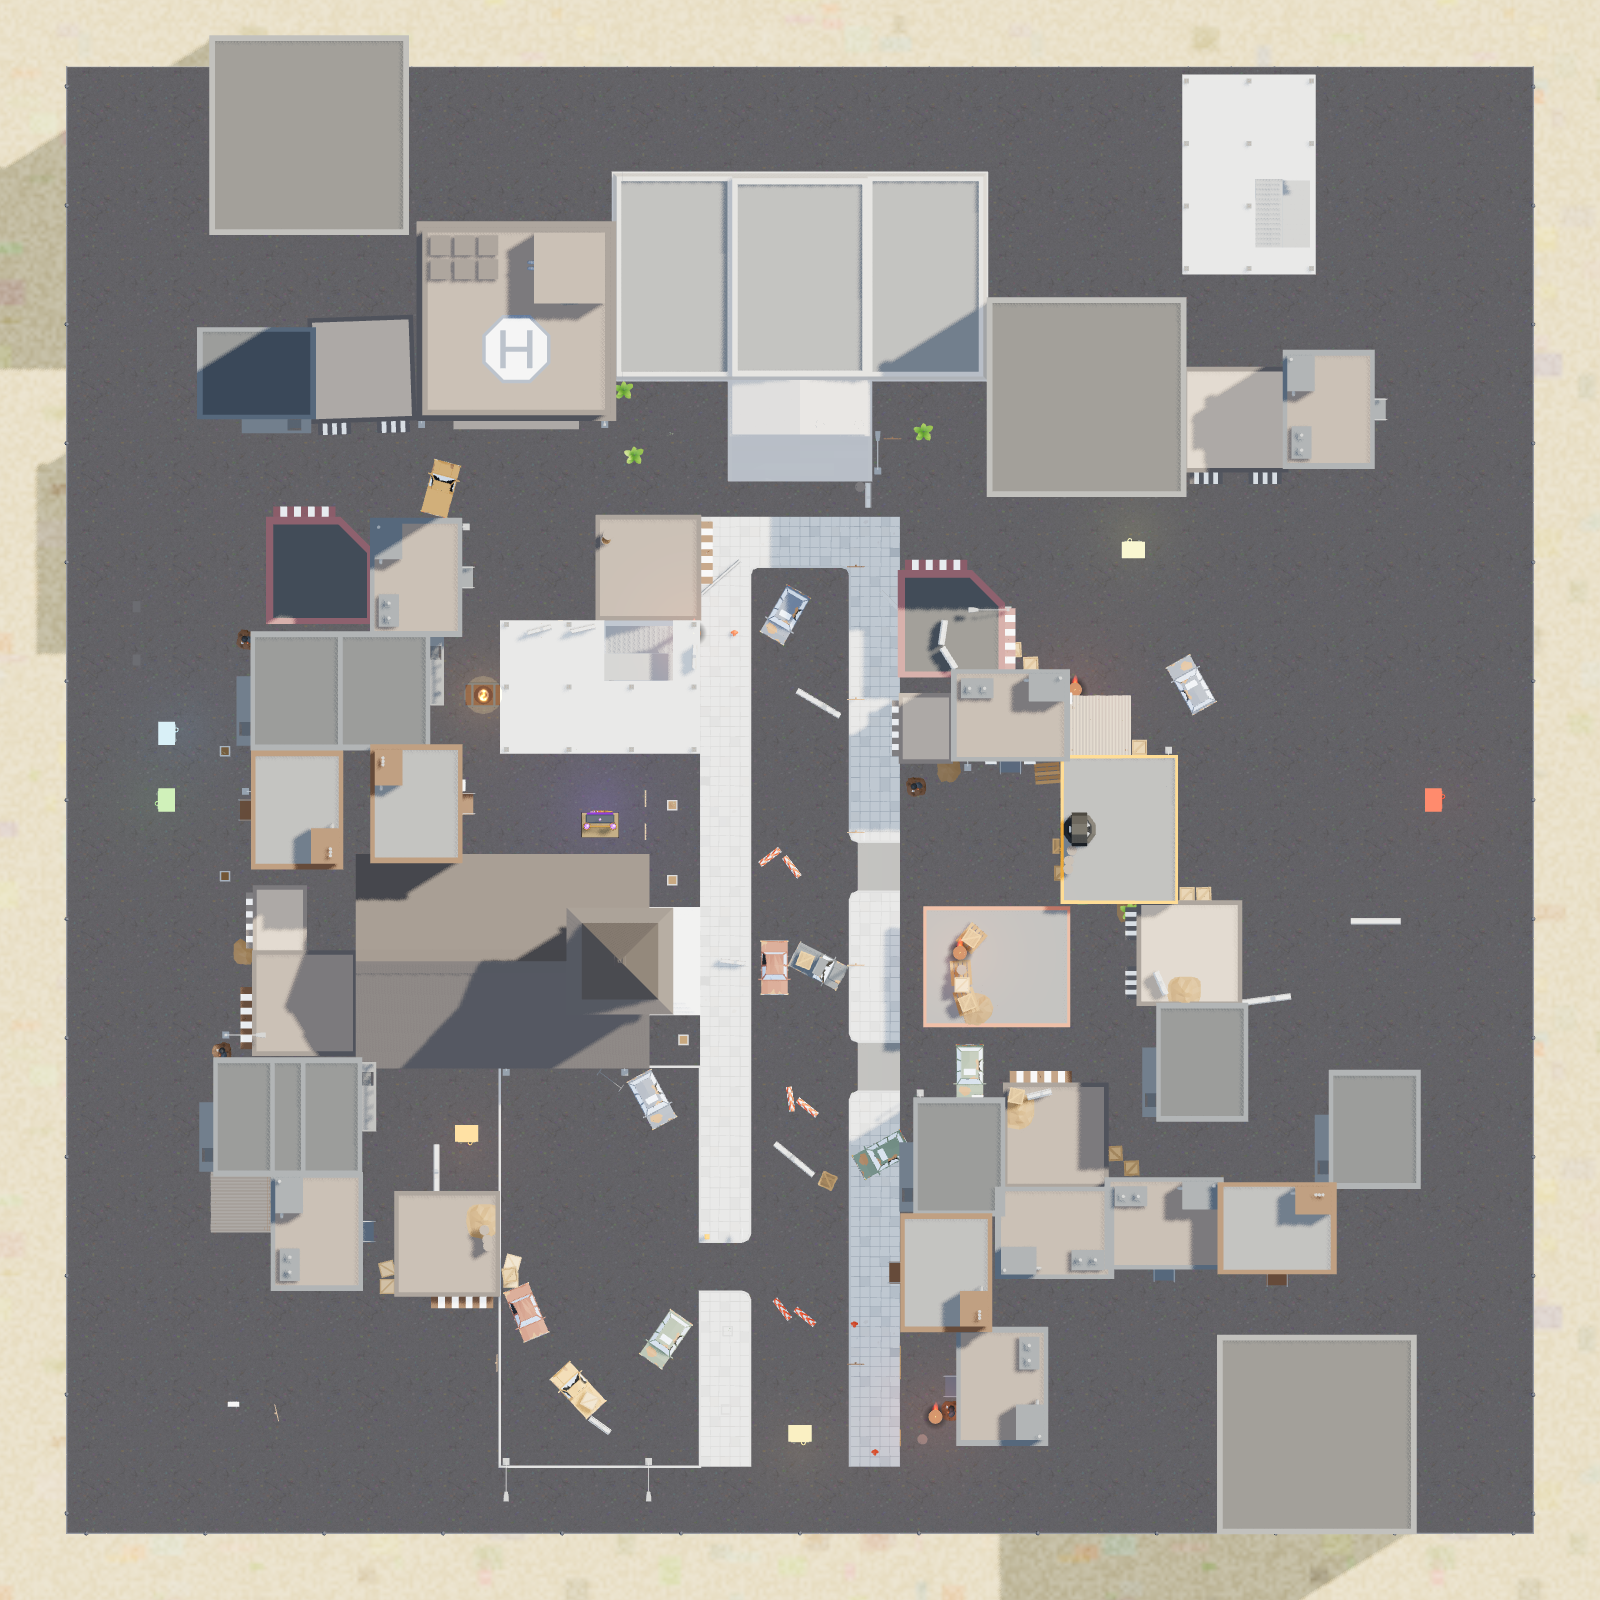
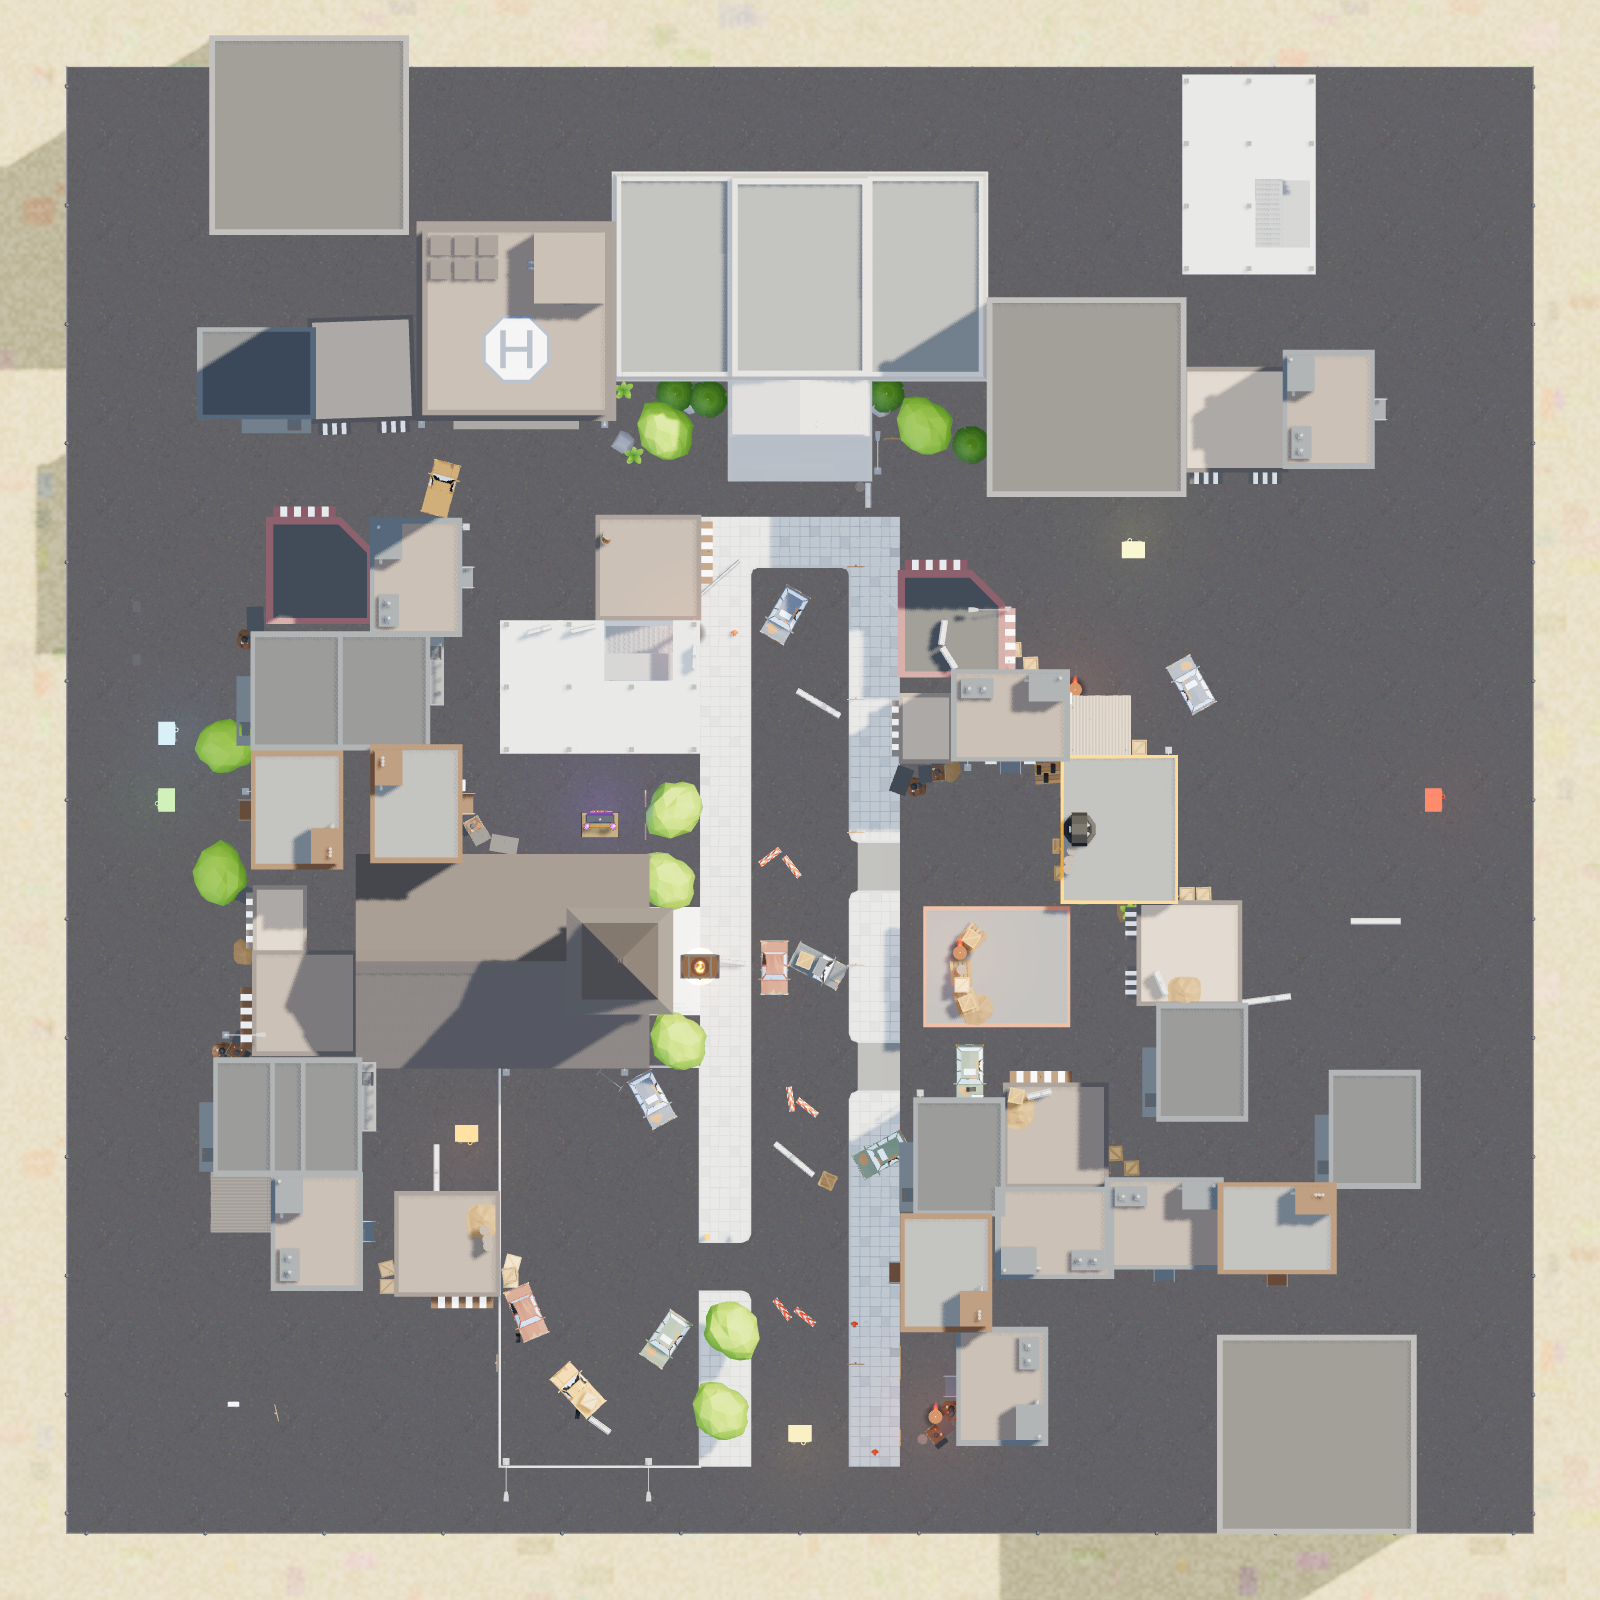
Extend Overpass's road to both fences and thicken the treeline
- Extends the source-authored road spine (SM_Floor_01 tiles at x=2.35)
  from the paved forecourt out to both the north and south perimeter
  fences on the same 5-unit tile grid, so it reads as a real through-road
  the gas station sits on instead of stopping dead at the forecourt edge.
- Adds a second, denser pass of 26 more trees (on top of the existing
  30-tree perimeter ring) filling the open grass between that ring and
  the forecourt/road, so the station reads as carved out of the woods
  instead of sitting in a clearing with trees only way out at the map
  edge. Positions generated with the same clearance check as the original
  ring - clear of the extended road, the paved forecourt, every existing
  collider and tree (with spacing), and every gameplay marker.

Also fixes tools/minimaps/capture_topdown.mjs: the mandatory loading
screen added recently sits on top of the canvas and is driven by
requestAnimationFrame, so freezing RAF for the screenshot (as the script
already did) left it stuck on screen instead of hiding itself - capture
now force-hides #loading directly instead of relying on it to disappear
on its own. tools/minimaps/ regenerated for all 6 maps.

diff --git a/public/index.html b/public/index.html
@@ -3752,10 +3752,10 @@ function buildOverpass(){
   placeFps2Asset('SM_Rock_02.glb',9.49,-12.5,0.463,{y:0.67,scale:2.688,collide:[1.44,1.28,0.7]});
   placeFps2Asset('SM_Rock_02.glb',-16.13,-22.12,-0.2962,{y:1.05,scale:3.758,collide:[2.01,1.78,0.7]});
   placeFps2Asset('SM_Rock_02.glb',-3.88,16.27,-1.6986,{y:0.542,scale:3.749,collide:[2.0,1.78,0.7]});
-  // SM_Floor_01 x7 - the source scene has 4 more of these tiles isolated
-  // out at z=+-27.5, well past the road spine below (which stays at
-  // x=2.35, z=-15..15) and disconnected from anything else - same
-  // "reads as random floating debris" call as SM_Floor_02 above, dropped.
+  // SM_Floor_01 x7 (source-authored road spine, x=2.35, z=-15..15) - the
+  // source scene has 4 more of these tiles isolated out at z=+-27.5, well
+  // past this spine and disconnected from anything else - same "reads as
+  // random floating debris" call as SM_Floor_02 above, dropped.
   placeFps2Asset('SM_Floor_01.glb',2.35,-10.0,0.0,{y:0.02});
   placeFps2Asset('SM_Floor_01.glb',2.35,5.0,0.0,{y:0.02});
   placeFps2Asset('SM_Floor_01.glb',2.35,15.0,0.0,{y:0.02});
@@ -3763,6 +3763,20 @@ function buildOverpass(){
   placeFps2Asset('SM_Floor_01.glb',2.35,0,0.0,{y:0.02});
   placeFps2Asset('SM_Floor_01.glb',2.35,10.0,0.0,{y:0.02});
   placeFps2Asset('SM_Floor_01.glb',2.35,-5.0,0.0,{y:0.02});
+  // SM_Floor_01 road extension (not source-authored) - continues the same
+  // 5-unit tile grid from the spine above out to both the north and south
+  // perimeter fences, so the road reads as a real through-route the gas
+  // station sits on instead of stopping dead at the edge of the forecourt.
+  placeFps2Asset('SM_Floor_01.glb',2.35,20.0,0.0,{y:0.02});
+  placeFps2Asset('SM_Floor_01.glb',2.35,25.0,0.0,{y:0.02});
+  placeFps2Asset('SM_Floor_01.glb',2.35,30.0,0.0,{y:0.02});
+  placeFps2Asset('SM_Floor_01.glb',2.35,35.0,0.0,{y:0.02});
+  placeFps2Asset('SM_Floor_01.glb',2.35,40.0,0.0,{y:0.02});
+  placeFps2Asset('SM_Floor_01.glb',2.35,-20.0,0.0,{y:0.02});
+  placeFps2Asset('SM_Floor_01.glb',2.35,-25.0,0.0,{y:0.02});
+  placeFps2Asset('SM_Floor_01.glb',2.35,-30.0,0.0,{y:0.02});
+  placeFps2Asset('SM_Floor_01.glb',2.35,-35.0,0.0,{y:0.02});
+  placeFps2Asset('SM_Floor_01.glb',2.35,-40.0,0.0,{y:0.02});
   // SM_Props_Wood_02 x11
   placeFps2Asset('SM_Props_Wood_02.glb',5.95,8.13,-0.2033,{y:1.061});
   placeFps2Asset('SM_Props_Wood_02.glb',-20.01,4.11,0,{y:0.371});
@@ -4064,6 +4078,36 @@ function buildOverpass(){
   placeTownAsset('Tree_01.glb',-34.4,27.81,2.97,{collide:[1.1,1.1,3.9]});
   placeTownAsset('Tree_01.glb',-22.64,-40.78,4.51,{collide:[1.1,1.1,3.9]});
   placeTownAsset('Tree_02.glb',31.41,-21.19,5.52,{collide:[1.1,1.1,3.9]});
+  // Second, denser pass filling in the open grass between the perimeter
+  // ring above and the paved forecourt/road, so the gas station reads as
+  // carved out of the woods instead of sitting in a clearing with a thin
+  // treeline way off at the map edge.
+  placeTownAsset('Tree_01.glb',-14.45,-28.63,2.84,{collide:[1.1,1.1,3.9]});
+  placeTownAsset('Tree_01.glb',-11.01,-36.24,3.52,{collide:[1.1,1.1,3.9]});
+  placeTownAsset('Tree_01.glb',-37.93,-5.44,5.8,{collide:[1.1,1.1,3.9]});
+  placeTownAsset('Tree_01.glb',-32.55,5.84,2.92,{collide:[1.1,1.1,3.9]});
+  placeTownAsset('Tree_01.glb',-35.85,-36.11,3.19,{collide:[1.1,1.1,3.9]});
+  placeTownAsset('Tree_01.glb',34.72,-11.35,3.69,{collide:[1.1,1.1,3.9]});
+  placeTownAsset('Tree_01.glb',-6.71,21.09,1.16,{collide:[1.1,1.1,3.9]});
+  placeTownAsset('Tree_01.glb',35.53,-6.42,3.21,{collide:[1.1,1.1,3.9]});
+  placeTownAsset('Tree_02.glb',30.79,-15.27,3.96,{collide:[1.1,1.1,3.9]});
+  placeTownAsset('Tree_02.glb',13.46,-36.03,4.98,{collide:[1.1,1.1,3.9]});
+  placeTownAsset('Tree_02.glb',12.06,40.43,0.59,{collide:[1.1,1.1,3.9]});
+  placeTownAsset('Tree_02.glb',13.83,-39.15,1.91,{collide:[1.1,1.1,3.9]});
+  placeTownAsset('Tree_02.glb',-8.37,34.18,0.57,{collide:[1.1,1.1,3.9]});
+  placeTownAsset('Tree_02.glb',26.18,29.85,5.08,{collide:[1.1,1.1,3.9]});
+  placeTownAsset('Tree_02.glb',16.92,39.89,4.35,{collide:[1.1,1.1,3.9]});
+  placeTownAsset('Tree_01.glb',-26.55,-21.98,0.26,{collide:[1.1,1.1,3.9]});
+  placeTownAsset('Tree_01.glb',-26.05,-17.88,6.17,{collide:[1.1,1.1,3.9]});
+  placeTownAsset('Tree_02.glb',22.96,30.71,6.06,{collide:[1.1,1.1,3.9]});
+  placeTownAsset('Tree_02.glb',-35.23,-23.95,4.11,{collide:[1.1,1.1,3.9]});
+  placeTownAsset('Tree_02.glb',-30.93,28.61,3.87,{collide:[1.1,1.1,3.9]});
+  placeTownAsset('Tree_02.glb',33.96,21.17,0.99,{collide:[1.1,1.1,3.9]});
+  placeTownAsset('Tree_02.glb',16.09,-19.59,0.09,{collide:[1.1,1.1,3.9]});
+  placeTownAsset('Tree_01.glb',-12.34,38.91,3.32,{collide:[1.1,1.1,3.9]});
+  placeTownAsset('Tree_01.glb',-22.92,-22.4,0.37,{collide:[1.1,1.1,3.9]});
+  placeTownAsset('Tree_01.glb',39.79,9.04,1.19,{collide:[1.1,1.1,3.9]});
+  placeTownAsset('Tree_01.glb',13.17,33.6,1.52,{collide:[1.1,1.1,3.9]});
   /* ---- perimeter ---- */
   fenceRun(-BND,BND,BND,BND);
   fenceRun(-BND,-BND,-BND,BND);
